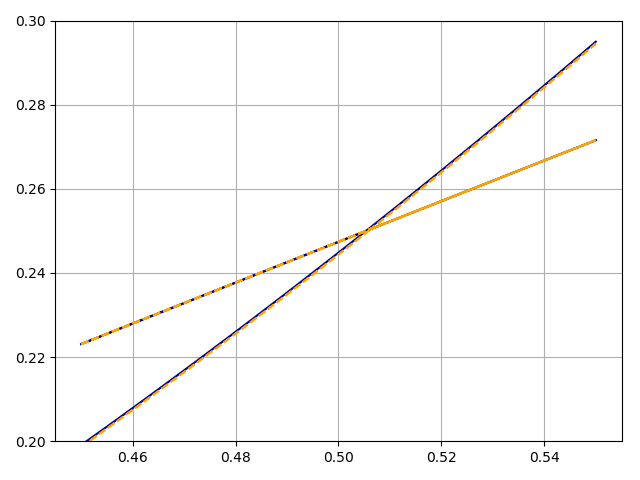
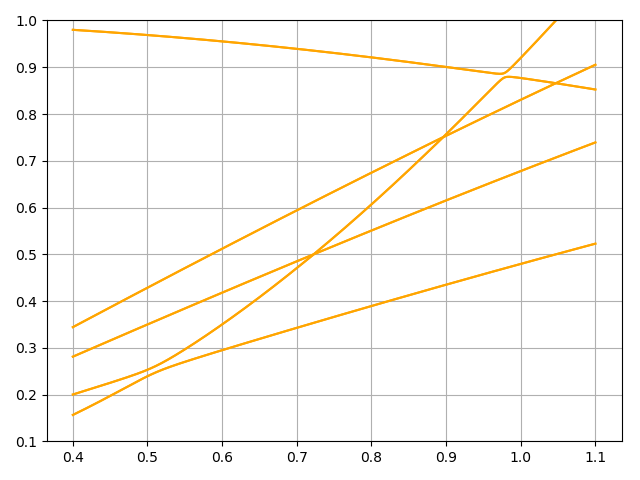
Magnon polarons can be succesfully detected with Bprime.

diff --git a/examples/magnonpolarons_with_base.py b/examples/magnonpolarons_with_base.py
@@ -13,14 +13,14 @@ os.chdir("..")
 # # # # # # # # # # # # # # # # # # # # # # # # # # # # # # # # # # # # # # # #
 # Constants
 # # # # # # # # # # # # # # # # # # # # # # # # # # # # # # # # # # # # # # # #
-N = 1  # number of sites per unit cell
+N = 2  # number of sites per unit cell
 
 # phonon constants
 hbar = 1
 m = 1 * np.ones(N)
-Omega = np.array([[2.0, 0.0, 0.0],
-                  [0.0, 1.0, 0.0],
-                  [0.0, 0.0, 1.0]])
+Phi = np.array([[1.0, 0.0, 0.0],
+                [0.0, 2.0, 0.0],
+                [0.0, 0.0, 3.0]])
 
 # magnon constants
 mu_B = 1
@@ -28,7 +28,7 @@ g = 1
 S = 1 * np.ones(N)
 J = 1
 Dz = 0
-Bz = 0 * np.ones(N)
+Bz = 0*np.linspace(0, 1, num=N)
 
 # magnon polarons constants
 Dprime = np.array([[0.0, 0.0, 0.0],
@@ -44,8 +44,8 @@ for j in range(N):
 a = 1
 k_arr = np.linspace(-np.pi/(N*a), np.pi/(N*a), num=100)
 
-k_arr = np.linspace(0.45, 0.55, num=100)
-ylim = [0.20, 0.30]
+k_arr = np.linspace(0.4, 1.1, num=1000)
+ylim = [0.1, 1]
 
 # # # # # # # # # # # # # # # # # # # # # # # # # # # # # # # # # # # # # # # #
 # main
@@ -57,6 +57,13 @@ def main():
 # # # # # # # # # # # # # # # # # # # # # # # # # # # # # # # # # # # # # # # #
 # Functions
 # # # # # # # # # # # # # # # # # # # # # # # # # # # # # # # # # # # # # # # #
+def show_matrix(X):
+    plt.imshow(np.abs(X))
+    plt.grid()
+    plt.colorbar()
+    plt.show()
+
+
 def order_eig(X):
     vals, vecs = np.linalg.eig(X)
     i_arr = np.argsort(vals)
@@ -70,19 +77,19 @@ def Phi_matrix(k):
     """
     matrix = np.zeros((3*N, 3*N), dtype=complex)
 
-    for j1 in range(0,3*N,3):
-        for j2 in range(0,3*N,3):
+    for j1 in range(0,N):
+        for j2 in range(0,N):
             if(j1 == j2):
-                matrix[j1:j1+3, j2:j2+3] += 2 * Omega / np.sqrt(m[j1//3]*m[j2//3])
-            if(j1-3 == j2):
-                matrix[j1:j1+3, j2:j2+3] -= Omega / np.sqrt(m[j1//3]*m[j2//3])
-            if(j1 == j2-3):
-                matrix[j1:j1+3, j2:j2+3] -= Omega / np.sqrt(m[j1//3]*m[j2//3])
-            if(j1 == 0 and j2 == 3*N-3):
-                matrix[j1:j1+3, j2:j2+3] -= Omega / np.sqrt(m[j1//3]*m[j2//3]) * \
+                matrix[3*j1:3*j1+3, 3*j2:3*j2+3] += 2 * Phi / np.sqrt(m[j1]*m[j2])
+            if(j1-1 == j2):
+                matrix[3*j1:3*j1+3, 3*j2:3*j2+3] -= Phi / np.sqrt(m[j1]*m[j2])
+            if(j1 == j2-1):
+                matrix[3*j1:3*j1+3, 3*j2:3*j2+3] -= Phi / np.sqrt(m[j1]*m[j2])
+            if(j1 == 0 and j2 == N-1):
+                matrix[3*j1:3*j1+3, 3*j2:3*j2+3] -= Phi / np.sqrt(m[j1]*m[j2]) * \
                     np.exp(-1j*k*N*a)
-            if(j1 == 3*N-3 and j2 == 0):
-                matrix[j1:j1+3, j2:j2+3] -= Omega / np.sqrt(m[j1//3]*m[j2//3]) * \
+            if(j1 == N-1 and j2 == 0):
+                matrix[3*j1:3*j1+3, 3*j2:3*j2+3] -= Phi / np.sqrt(m[j1]*m[j2]) * \
                     np.exp(1j*k*N*a)
 
     return matrix
@@ -126,43 +133,33 @@ def Dprime_tensor(k):
     pass
 
 
-def Psi(k, eps_k):
-    s = 0
-    for beta in range(3):
-        s += np.sqrt(0.25*hbar*S) * (
-            S*np.abs(np.exp(1j*k*a)-1)**2*(1j*Dprime[0,beta]+Dprime[1,beta]) -
-            mu_B*g*(Bprime[0,beta]-1j*Bprime[1,beta])
-        )*eps_k[beta]
-    return s
-
-
 def create_Tmatrix(k):
     # alpha = [a{k,1...N}, c{k,1...3*N}, a{-k,1...N}, c{-k,1...3*N}]
     Tmatrix = np.zeros((8*N, 8*N), dtype=complex)
 
-    phi, eps_arr = order_eig(Phi_matrix(k))
+    phi, eps_arr = order_eig(Phi_matrix(-k))
     Jk, J0 = J_matrix(k), J_matrix(0)
     Dk, D0 = Dz_matrix(k), Dz_matrix(0)
     Dprime_k, Dprime_0 = Dprime_tensor(k), Dprime_tensor(0)
 
     # magnon terms
     for j1 in range(N):
+        Tmatrix[j1,j1] += mu_B*g*S[j1]*Bz[j1]
+        Tmatrix[4*N+j1,4*N+j1] += mu_B*g*S[j1]*Bz[j1]
         for j2 in range(N):
-            Tmatrix[j1,j1] += 0.5*np.sqrt(S[j1]*S[j2]) * J0[j1,j2]
-            Tmatrix[j2,j2] += 0.5*np.sqrt(S[j1]*S[j2]) * J0[j1,j2]
+            Tmatrix[j1,j1] += 0.5*S[j2] * J0[j1,j2]
+            Tmatrix[j2,j2] += 0.5*S[j1] * J0[j1,j2]
             Tmatrix[j1,j2] -= 0.5*np.sqrt(S[j1]*S[j2]) * \
-                (Jk[j1,j2] + np.conjugate(Jk[j1,j2]))
+                (Jk[j1,j2] + np.conjugate(Jk[j2,j1]))
             Tmatrix[j1,j2] -= 0.5j*np.sqrt(S[j1]*S[j2]) * \
-                (Dk[j1,j2] - np.conjugate(Dk[j1,j2]))
-            Tmatrix[j1,j2] += Bz[j1] * (j1 == j2)
+                (Dk[j1,j2] - np.conjugate(Dk[j2,j1]))
 
-            Tmatrix[4*N+j1,4*N+j1] += 0.5*np.sqrt(S[j1]*S[j2]) * J0[j1,j2]
-            Tmatrix[4*N+j2,4*N+j2] += 0.5*np.sqrt(S[j1]*S[j2]) * J0[j1,j2]
+            Tmatrix[4*N+j1,4*N+j1] += 0.5*S[j2] * J0[j1,j2]
+            Tmatrix[4*N+j2,4*N+j2] += 0.5*S[j1] * J0[j1,j2]
             Tmatrix[4*N+j1,4*N+j2] -= 0.5*np.sqrt(S[j1]*S[j2]) * \
-                (Jk[j1,j2] + np.conjugate(Jk[j1,j2]))
+                (np.conjugate(Jk[j1,j2]) + Jk[j2,j1])
             Tmatrix[4*N+j1,4*N+j2] -= 0.5j*np.sqrt(S[j1]*S[j2]) * \
-                (Dk[j1,j2] - np.conjugate(Dk[j1,j2]))
-            Tmatrix[4*N+j1,4*N+j2] += Bz[j1] * (j1 == j2)
+                (np.conjugate(Dk[j1,j2]) - Dk[j2,j1])
 
     # phonon terms
     for lambd in range(3*N):
@@ -209,12 +206,13 @@ def create_Umatrix(k):
     for beta in range(3*N):
         for lambd in range(3*N):
             for j1 in range(N):
-                Umatrix[j1,5*N+lambd] -= mu_B*g*np.sqrt(0.25*hbar*S) * \
+                Umatrix[j1,5*N+lambd] -= mu_B*g*np.sqrt(0.25*hbar*S[j1]) * \
                     (Bprime[j1,0,beta]+1j*Bprime[j1,1,beta])*eps_arr[beta,lambd]
-                Umatrix[N+lambd,4*N+j1] -= mu_B*g*np.sqrt(0.25*hbar*S) * \
+                Umatrix[N+lambd,4*N+j1] -= mu_B*g*np.sqrt(0.25*hbar*S[j1]) * \
                     np.conjugate((Bprime[j1,0,beta]-1j*Bprime[j1,1,beta]) * \
                                  eps_arr[beta,lambd])
 
+    # show_matrix(Umatrix)
     return Umatrix
 
 
@@ -230,11 +228,11 @@ def dispersion_relation(k_arr):
 
     fig = plt.figure()
     ax = fig.add_subplot(111)
-    for j in range(3):
-        ax.plot(k_arr, phonon_energy(k_arr, j), color="darkblue")
-    ax.plot(k_arr, magnon_energy(k_arr), color="darkblue")
+    # for j in range(3):
+    #     ax.plot(k_arr, phonon_energy(k_arr, j), color="darkblue")
+    # ax.plot(k_arr, magnon_energy(k_arr), color="darkblue")
     for i in range(len(energies)//2):
-        ax.plot(k_arr, np.real(energies[i,:]), '--', color="orange")
+        ax.plot(k_arr, np.real(energies[i,:]), color="orange")
 
     try:
         ax.set_ylim(ylim)
@@ -249,10 +247,10 @@ def dispersion_relation(k_arr):
 
 
 def phonon_energy(k, j=0):
-    return hbar*Omega[j,j]*np.abs(np.sin(0.5*k_arr*a))
+    return hbar*np.sqrt(Phi[j,j])*np.abs(np.sin(0.5*k_arr*a))
 
-def magnon_energy(k):
-    return 2*J*S*(1-np.cos(k*a)) - 2*Dz*S*np.sin(k*a) + Bz
+def magnon_energy(k, j=0):
+    return 2*J*S[j]*(1-np.cos(k*a)) - 2*Dz*S[j]*np.sin(k*a) + Bz[j]
 
 
 # # # # # # # # # # # # # # # # # # # # # # # # # # # # # # # # # # # # # # # #
